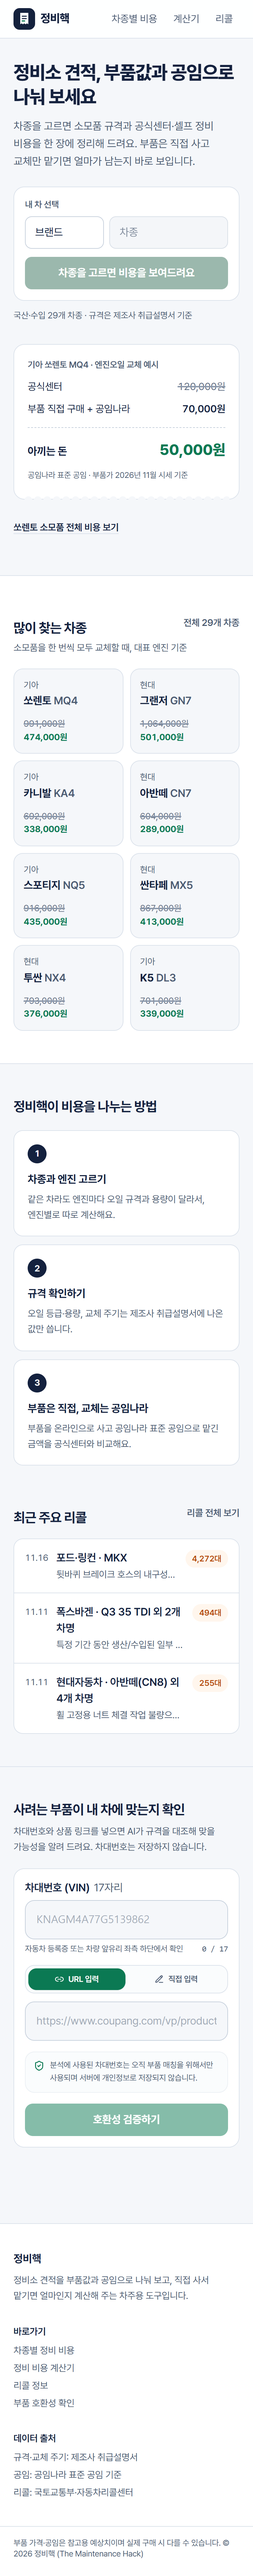
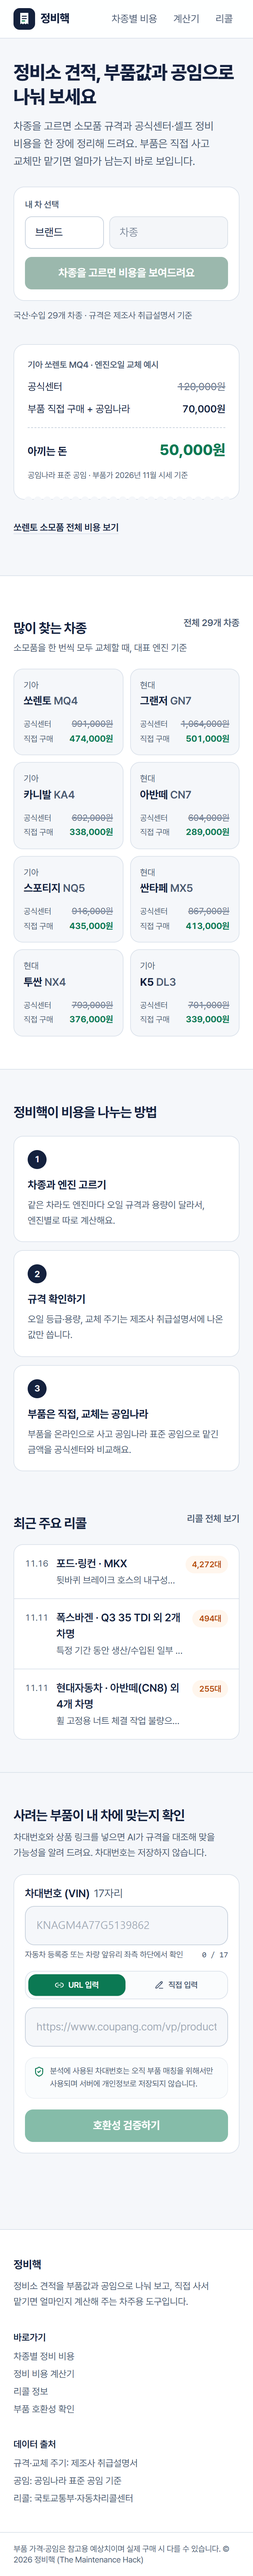
fix(home): 많이 찾는 차종 카드에 '공식센터 / 직접 구매' 금액 표시
Claude-Session: https://claude.ai/code/session_01WQaQjTuUMSxmKz58oACCQo

diff --git a/app/page.tsx b/app/page.tsx
@@ -100,10 +100,16 @@ export default function Home() {
                     <p className="mt-0.5 font-bold">
                       {car.model} <span className="font-semibold text-muted-foreground">{car.generation.replace(/\s*\(.*?\)\s*/g, "")}</span>
                     </p>
-                    <p className="num mt-3 flex flex-col text-[13px] sm:flex-row sm:items-baseline sm:justify-between sm:text-[14px]">
-                      <span className="price-was">{won(t.dealer)}</span>
-                      <span className="font-bold text-primary">{won(t.self)}</span>
-                    </p>
+                    <dl className="mt-3 space-y-0.5 text-[13px] sm:text-[14px]">
+                      <div className="flex items-baseline justify-between gap-2">
+                        <dt className="text-[12px] text-muted-foreground">공식센터</dt>
+                        <dd className="num price-was">{won(t.dealer)}</dd>
+                      </div>
+                      <div className="flex items-baseline justify-between gap-2">
+                        <dt className="text-[12px] text-muted-foreground">직접 구매</dt>
+                        <dd className="num font-bold text-primary">{won(t.self)}</dd>
+                      </div>
+                    </dl>
                   </Link>
                 </li>
               )
